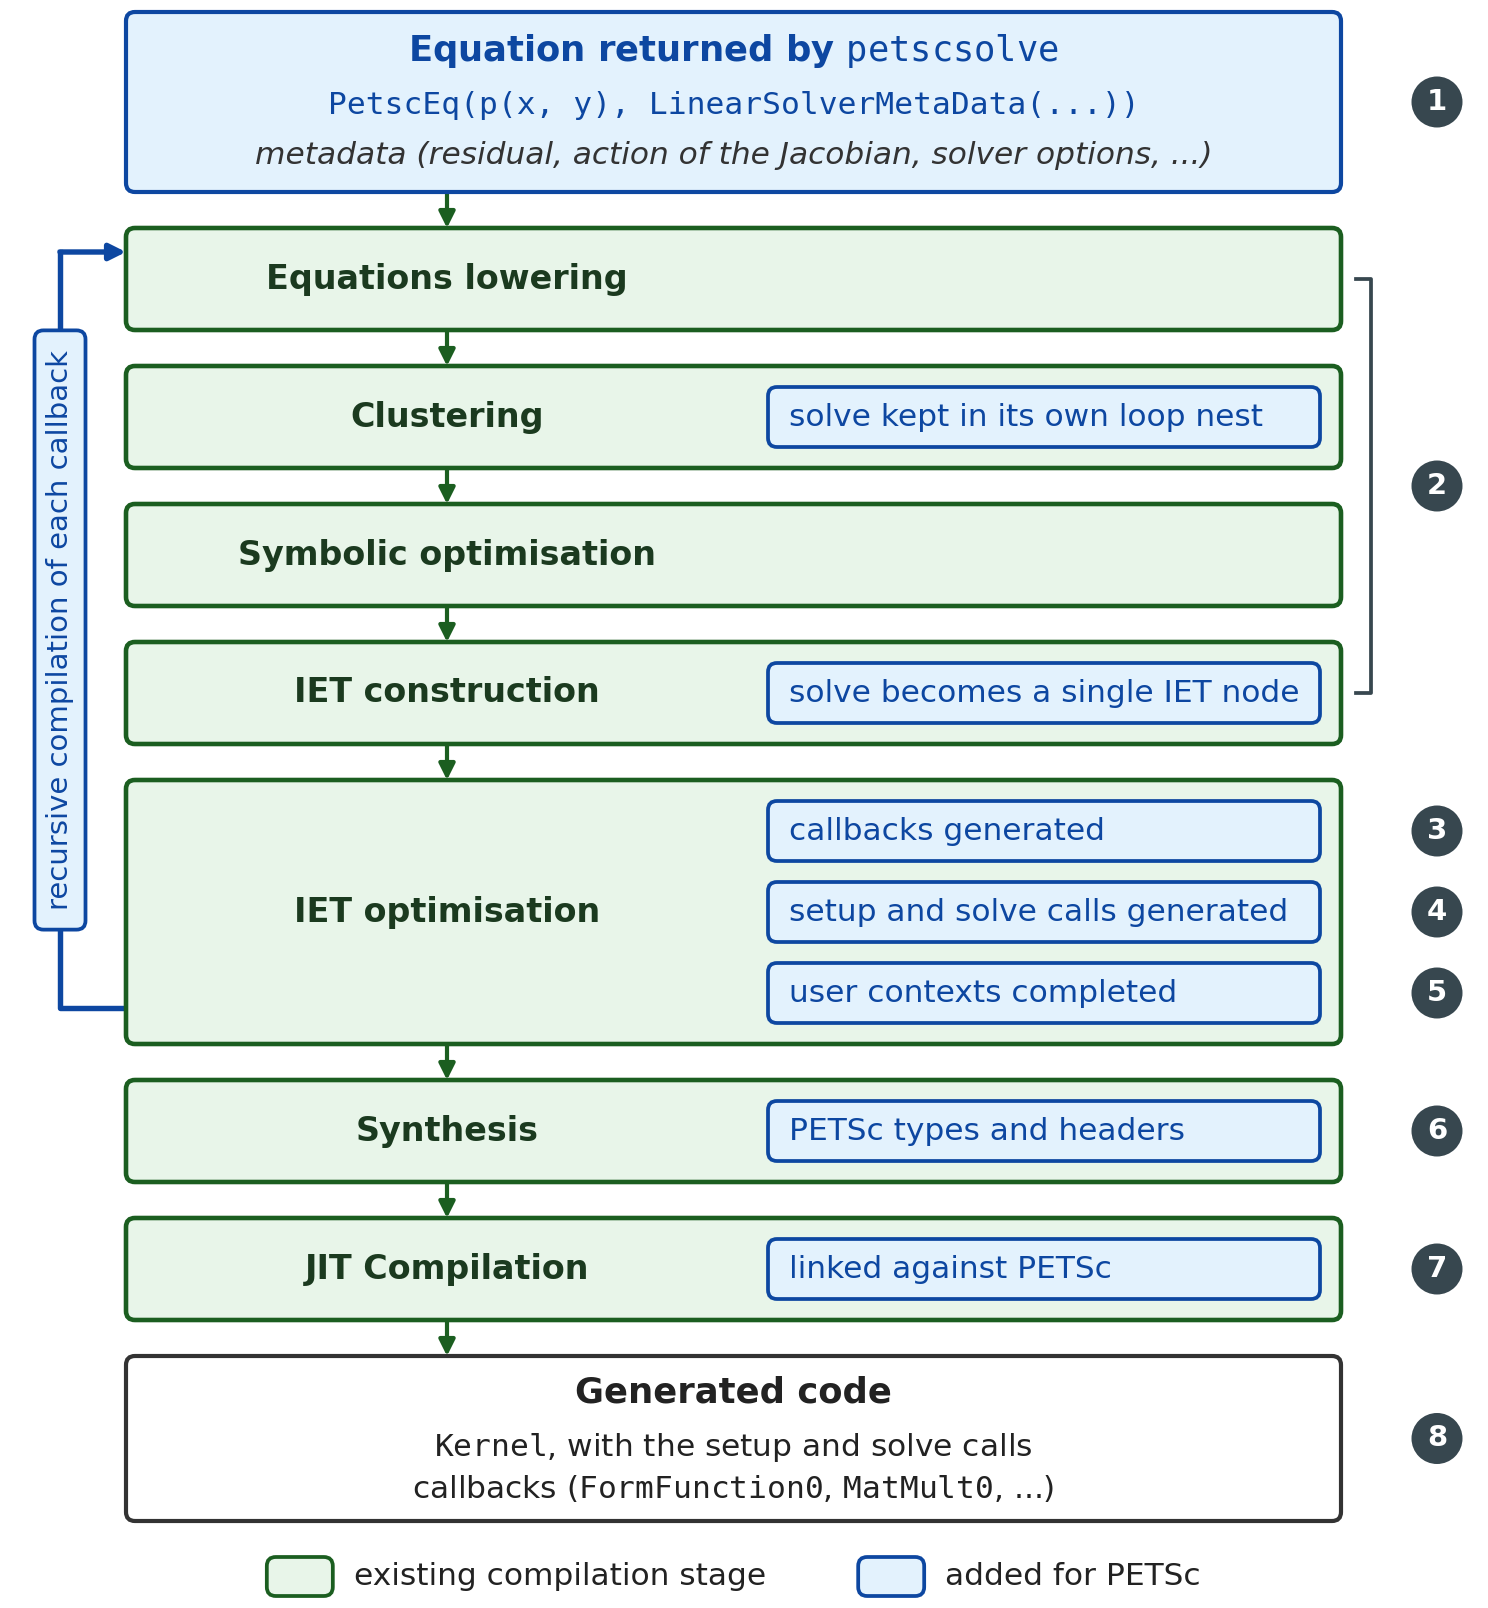
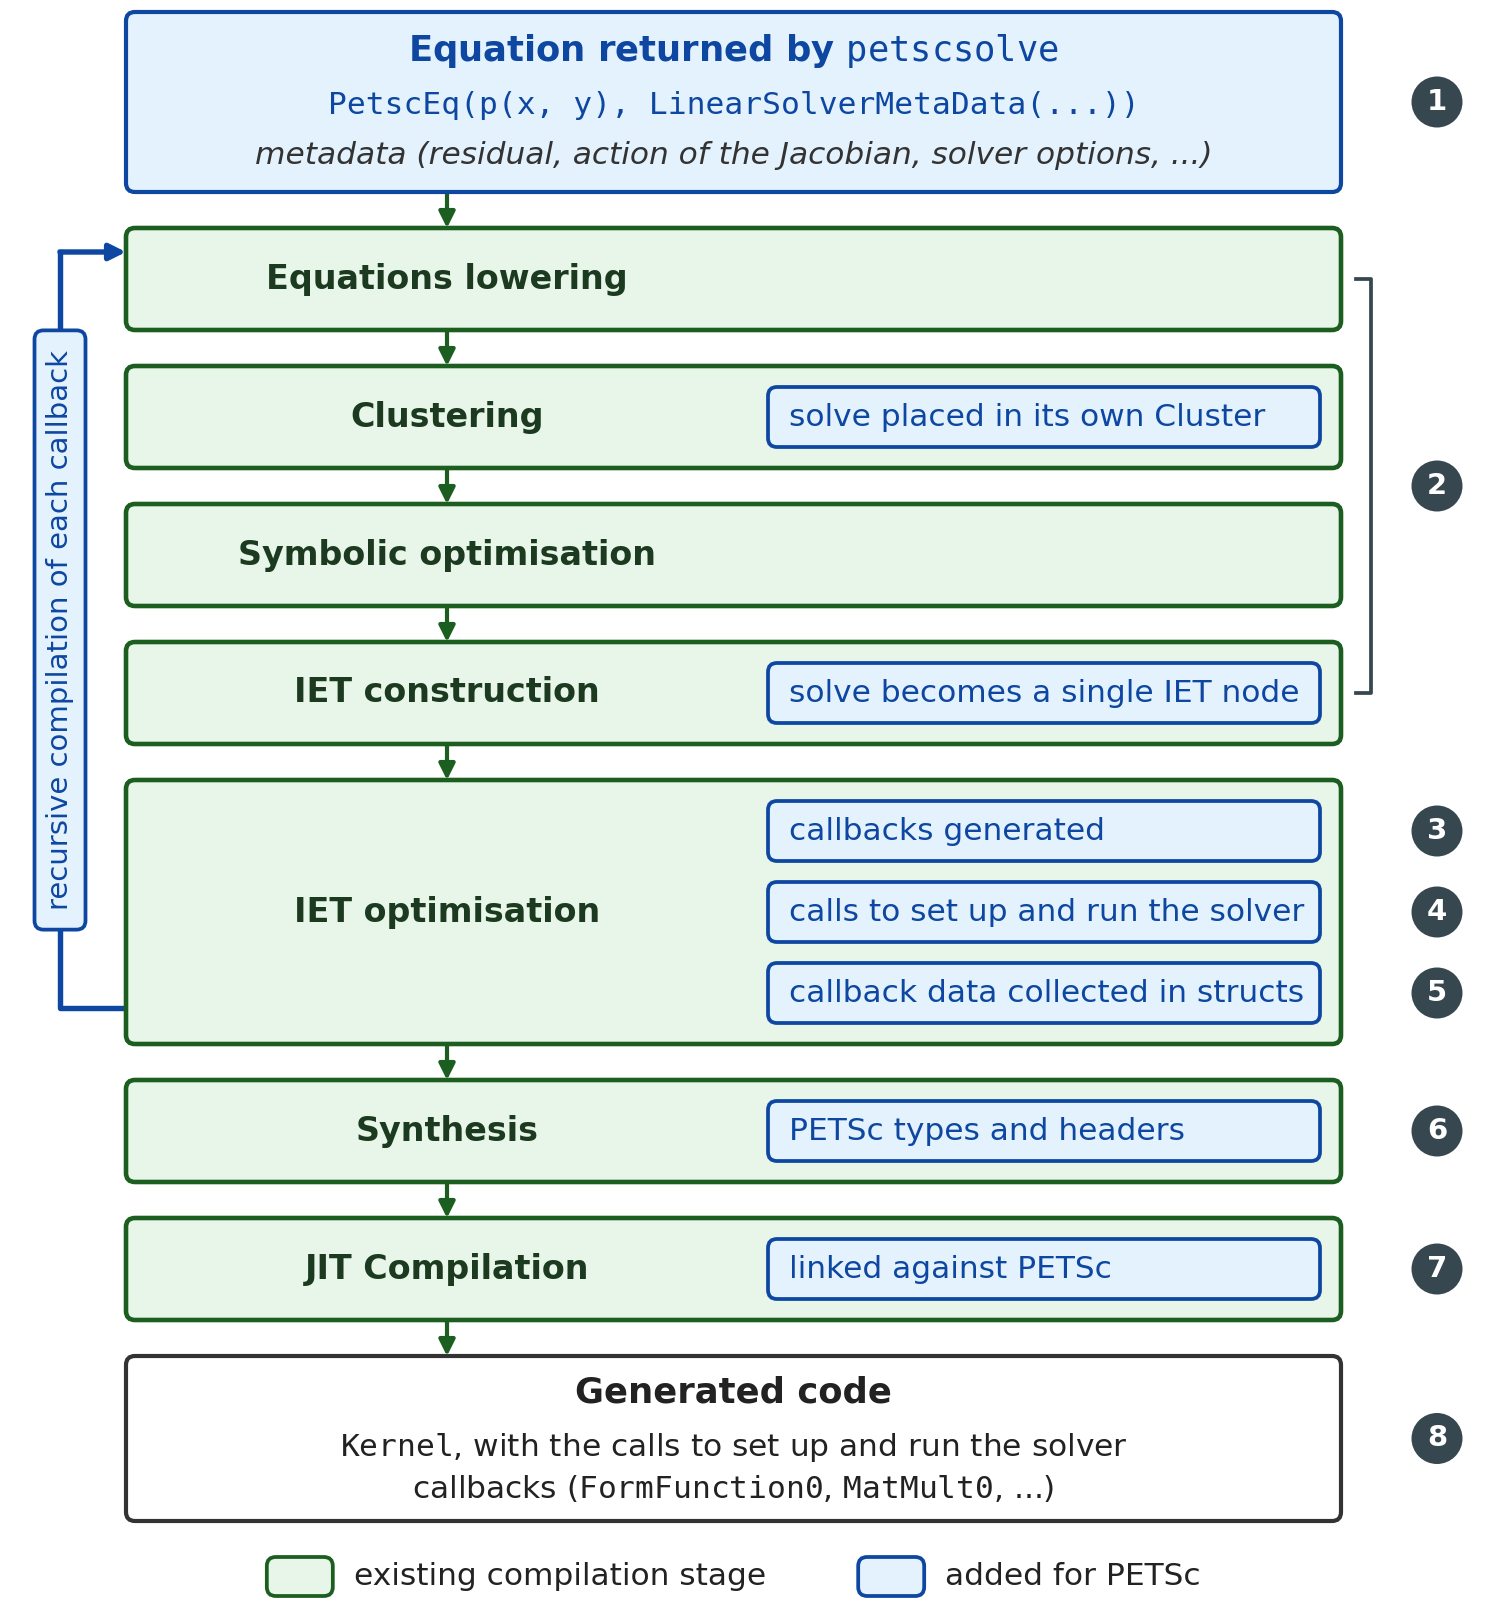
edit devito petsc compiler plot

Changed region(s): [[0.5255, 0.5597, 0.8656, 0.6219], [0.2782, 0.8706, 0.7419, 0.9017], [0.5874, 0.2488, 0.8347, 0.2799]]

diff --git a/Chapter2/devito_compiler_petsc.py b/Chapter2/devito_compiler_petsc.py
@@ -125,15 +125,15 @@ arrow(name_cx, rows[-1][0], name_cx, y_out + h_out)
 
 # What the PETSc code generation adds to each stage
 (y1, h1), (y2, h2), (y3, h3), (y4, h4), (y5, h5), (y6, h6), (y7, h7) = rows
-addition(y2 + m, h2 - 2 * m, ["solve kept in its own loop nest"])
+addition(y2 + m, h2 - 2 * m, ["solve placed in its own Cluster"])
 addition(y4 + m, h4 - 2 * m, ["solve becomes a single IET node"])
 # IET optimisation has one addition per marker
 hB = h_add
 yA = y5 + h5 - m - hB
 marker(addition(yA, hB, ["callbacks generated"])[0], 3)
-marker(addition(yA - m - hB, hB, ["setup and solve calls generated"])[0], 4)
+marker(addition(yA - m - hB, hB, ["calls to set up and run the solver"])[0], 4)
 yB = y5 + m
-marker(addition(yB, hB, ["user contexts completed"])[0], 5)
+marker(addition(yB, hB, ["callback data collected in structs"])[0], 5)
 assert abs((yA - m - hB) - (yB + hB + m)) < 1e-9, "IET optimisation additions"
 marker(addition(y6 + m, h6 - 2 * m, ["PETSc types and headers"])[0], 6)
 marker(addition(y7 + m, h7 - 2 * m, ["linked against PETSc"])[0], 7)
@@ -162,7 +162,7 @@ b_out = (card_x, y_out, card_r, y_out + h_out)
 box(card_x, y_out, card_w, h_out, "#333333", "white")
 text(cx, y_out + h_out - 0.12, "Generated code", b_out, ha="center", fontsize=8.5,
      fontweight="bold", color="#222222")
-text(cx, y_out + h_out / 2 - 0.03, r"$\mathtt{Kernel}$, with the setup and solve calls", b_out,
+text(cx, y_out + h_out / 2 - 0.03, r"$\mathtt{Kernel}$, with the calls to set up and run the solver", b_out,
      ha="center", fontsize=7.5, color="#222222")
 text(cx, y_out + 0.11, r"callbacks ($\mathtt{FormFunction0}$, $\mathtt{MatMult0}$, ...)", b_out,
      ha="center", fontsize=7.5, color="#222222")
